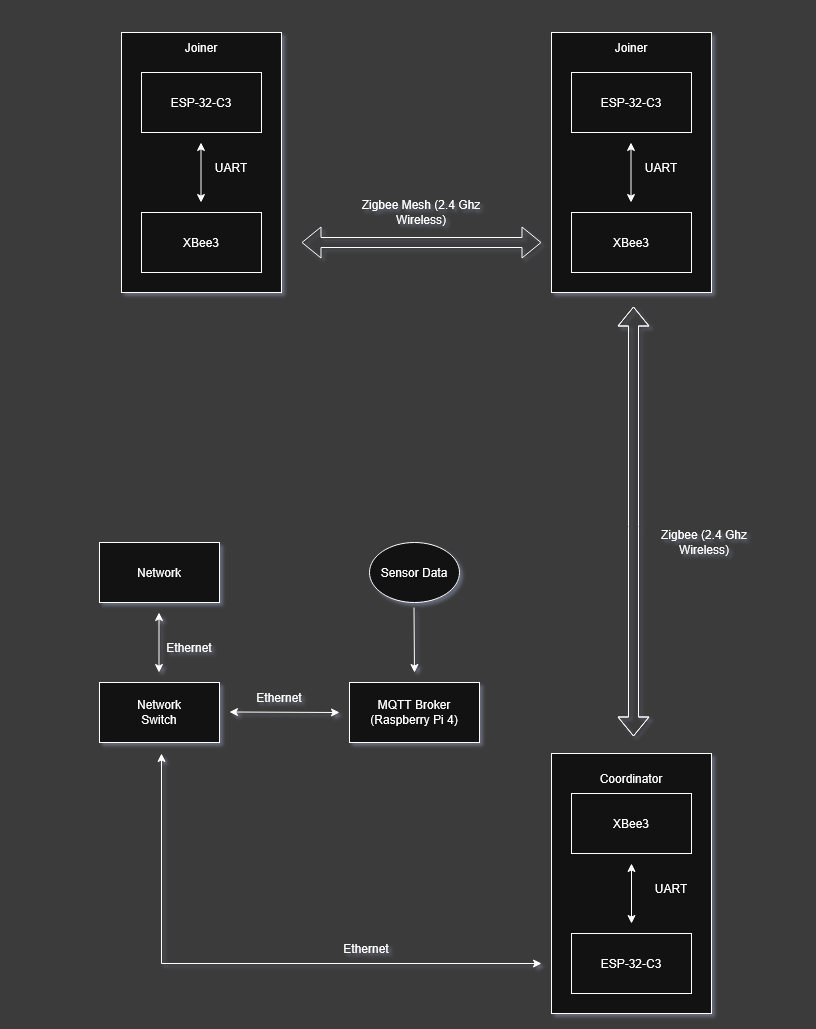
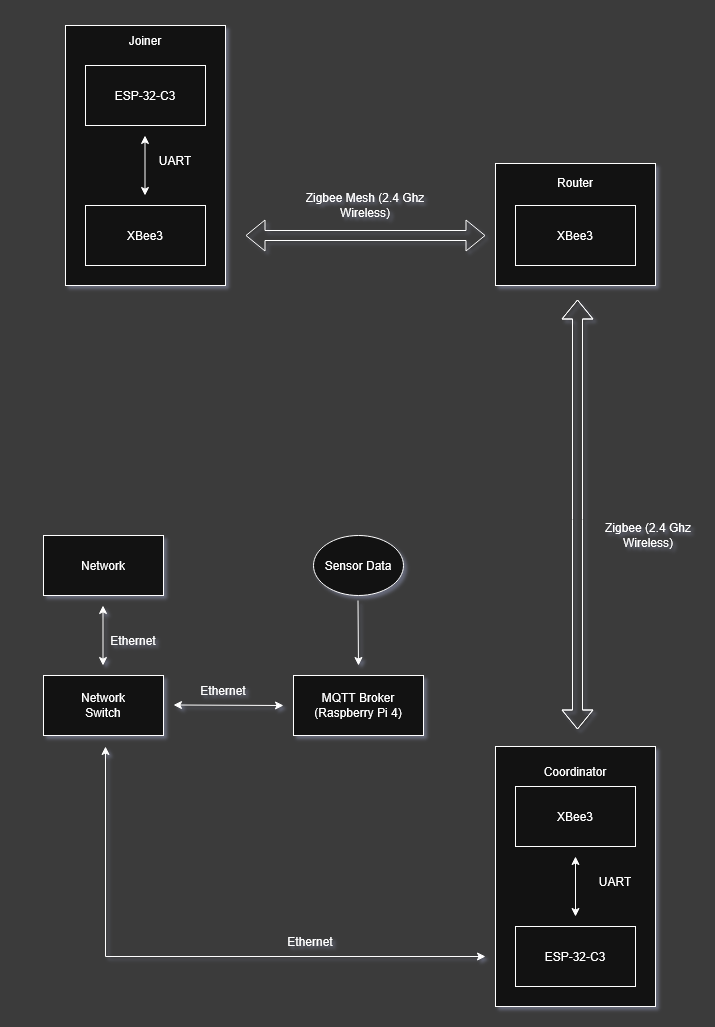
Updated system diagram

Changed region(s): [[0.0923, 0.0, 0.9538, 0.9971], [0.0615, 0.4985, 0.6154, 0.7478], [0.4, 0.9036, 0.4923, 0.9348]]

diff --git a/README.md b/README.md
@@ -76,14 +76,10 @@ main.c
 ## Hardware
 
 ### Coordinator
-- ESP32-C3 + XBee3 Zigbee 3.0 TH + W5500 Ethernet
-- GPIO: IO15 button, IO6/IO7 XBee UART, IO10-13 W5500 SPI
+- ESP32-C3 Super Mini + XBee3 Zigbee 3.0 TH + W5500 Ethernet
 
 ### Joiner
 - ESP32-C3 Super Mini + XBee3 Zigbee 3.0 TH
-- 2N2222A transistor (low-side switch), 1N4001 flyback diode, 5V relay
-- Mains load switched via relay on cut extension cord
-- Powered from relay supply line, no USB required
 
 ## Raspberry Pi Broker Setup
 